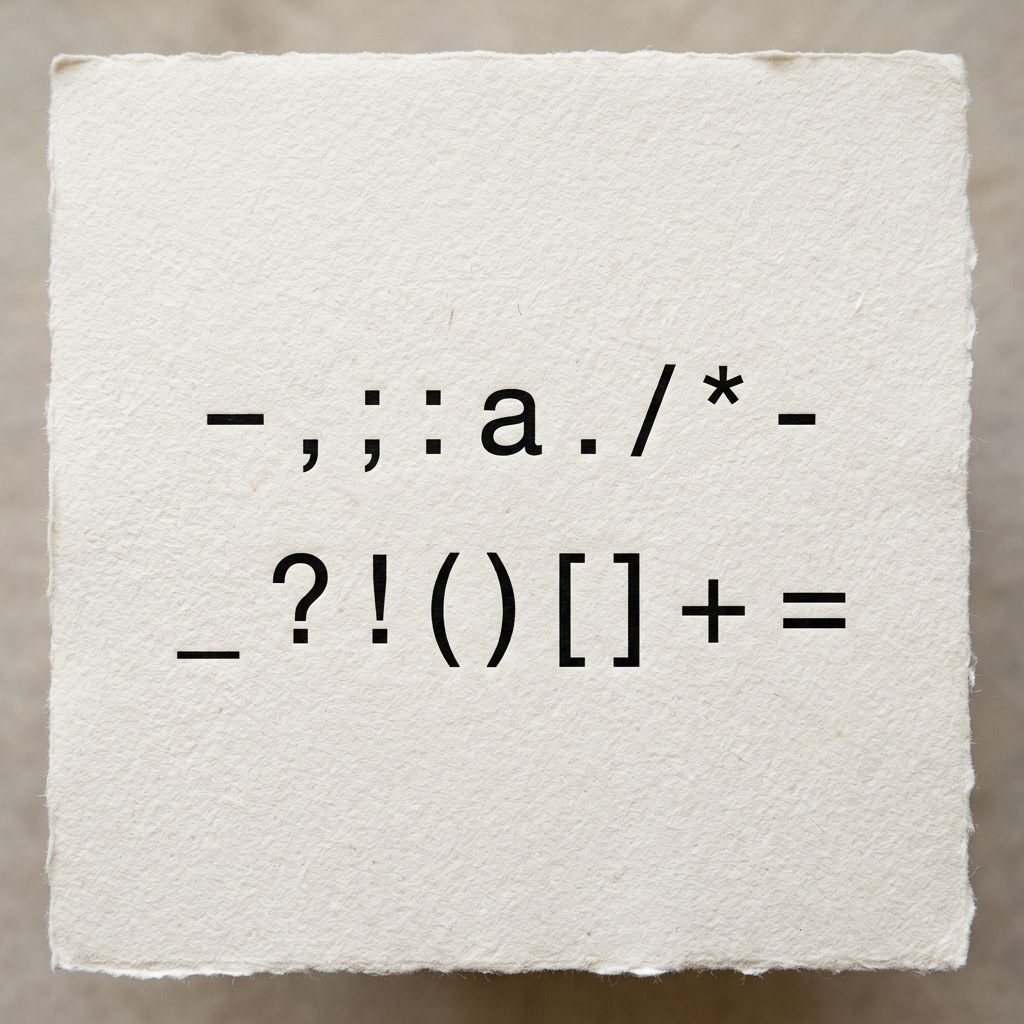
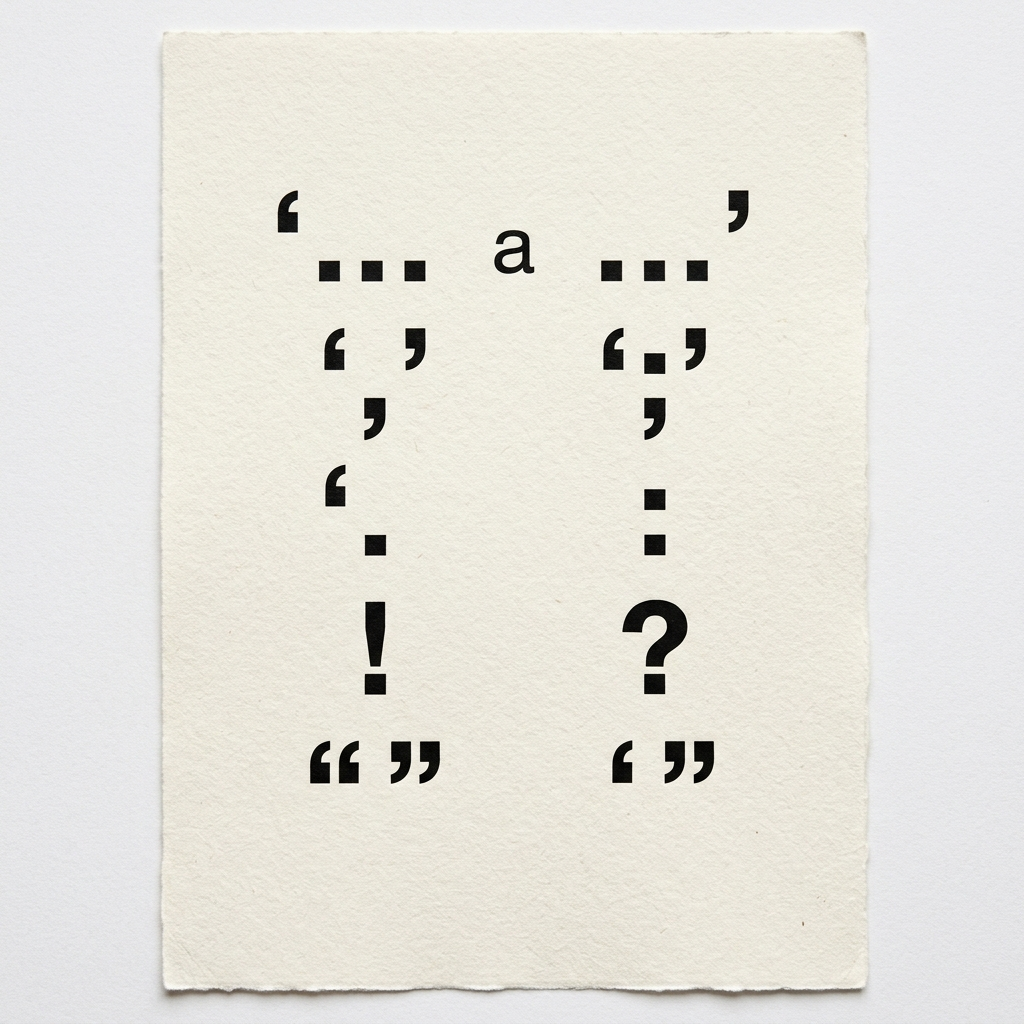
Update punctuation art image to a 2x5 columns/rows grid, and remove Practice image caption

diff --git a/index.html b/index.html
@@ -122,9 +122,6 @@
             <div class="editorial-image-wrapper image-home image-fill">
               <img src="assets/punctuation_art.png" alt="Monochrome print of punctuation marks with an 'a' in the middle" loading="lazy">
             </div>
-            <p class="caption-text" style="margin-top: var(--space-sm); text-align: left; font-style: italic; font-size: 0.65rem;">
-              The Envelope of the Symptom
-            </p>
           </div>
 
           <div class="body-text">